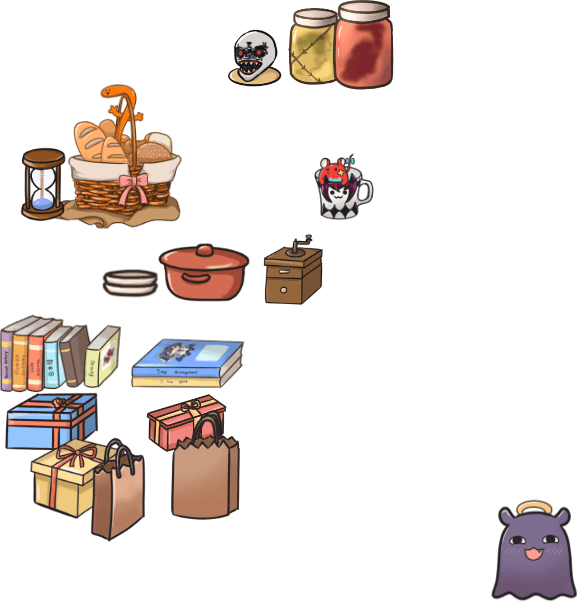
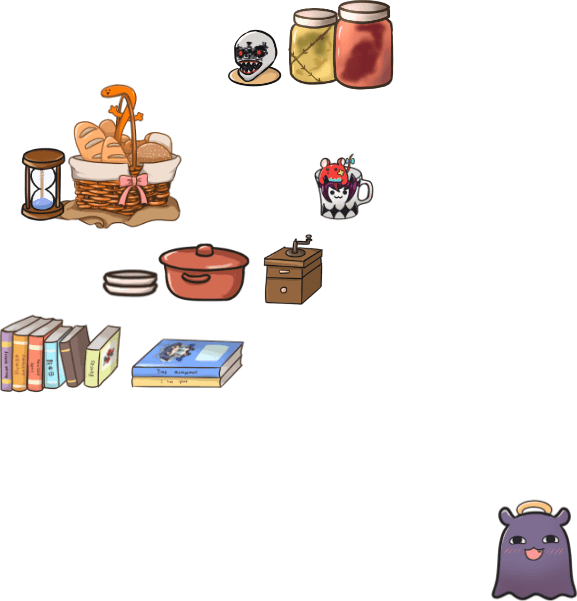
Added daki, spider, separated gifts as clickable

Changed region(s): [[0.0, 0.629, 0.2496, 0.8985], [0.2496, 0.6589, 0.4367, 0.8686]]

diff --git a/src/game/scenes/index.js b/src/game/scenes/index.js
@@ -22,12 +22,16 @@ import bowls from '../assets/images/bowls.png';
 import balloon1 from '../assets/images/balloon1.png';
 import balloon2 from '../assets/images/balloon2.png';
 import decors from '../assets/images/decors.png';
+import gifts from '../assets/images/gifts.png';
+import spider from '../assets/images/spider.png';
+import daki from '../assets/images/daki.png';
 import letters from '../assets/images/letters.png';
 import painting from '../assets/images/painting.png';
 import shelftop from '../assets/images/shelftop.png';
 import flag1 from '../assets/images/flag1.png';
 import flag2 from '../assets/images/flag2.png';
 import flag3 from '../assets/images/flag3.png';
+
 import quests from '../assets/images/quests.png';
 import bae from '../assets/images/bae.png';
 import mumei from '../assets/images/mumei.png';
@@ -105,6 +109,9 @@ class IndexScene extends Phaser.Scene {
     this.load.image('balloon1', [balloon1, balloon1N]);
     this.load.image('balloon2', [balloon2, balloon2N]);
     this.load.image('decors', [decors, decorsN]);
+    this.load.image('gifts', gifts);
+    this.load.image('spider', spider);
+    this.load.image('daki', daki);
     this.load.image('letters', [letters, lettersN]);
     this.load.image('painting', painting);
     this.load.image('shelftop', shelftop);

diff --git a/src/data/elements.js b/src/data/elements.js
@@ -40,11 +40,19 @@ module.exports = {
     ox: 0,
     oy: 0,
   },
+  daki: {
+    x: 0.12,
+    y: 0.47,
+    z: 4,
+    str: 0.85,
+    scale: 0.9,
+  },
   animol: {
     x: 0.14,
     y: 0.53,
     z: 4,
     str: 0.8,
+    scale: 0.86,
     text: 'Animol',
     font: 40,
     ly: -0.6,
@@ -118,6 +126,15 @@ module.exports = {
     oy: 0,
     scale: 0.9,
   },
+  spider: {
+    x: 0.65,
+    y: 0.005,
+    z: 5.2,
+    str: 3,
+    ox: 0,
+    oy: 0,
+    scale: 0.76,
+  },
   decors: {
     x: 0.496,
     y: 0.085,
@@ -127,10 +144,20 @@ module.exports = {
     oy: 0,
     scale: 0.9,
   },
+  gifts: {
+    x: 0.56,
+    y: 0.53,
+    z: 5.1,
+    str: 0.8,
+    scale: 0.9,
+    text: 'Birthday Gifts',
+    font: 40,
+    project: 'fanarts',
+  },
   shelftop: {
     x: 0.484,
     y: 0.01,
-    z: 5,
+    z: 5.9,
     str: 0.9,
     ox: 0,
     oy: 0,
